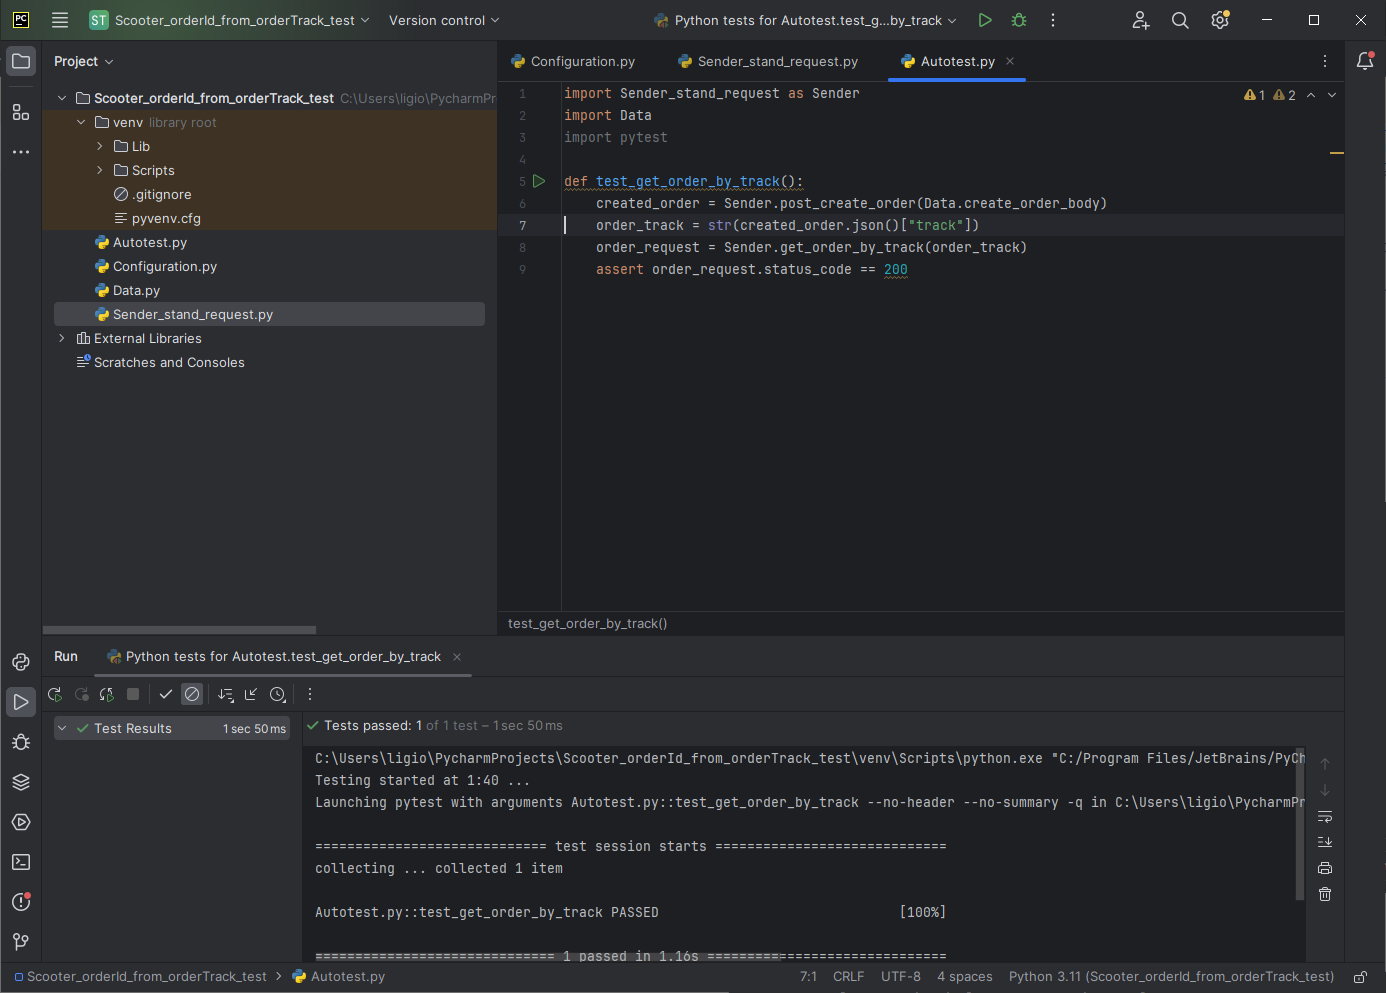
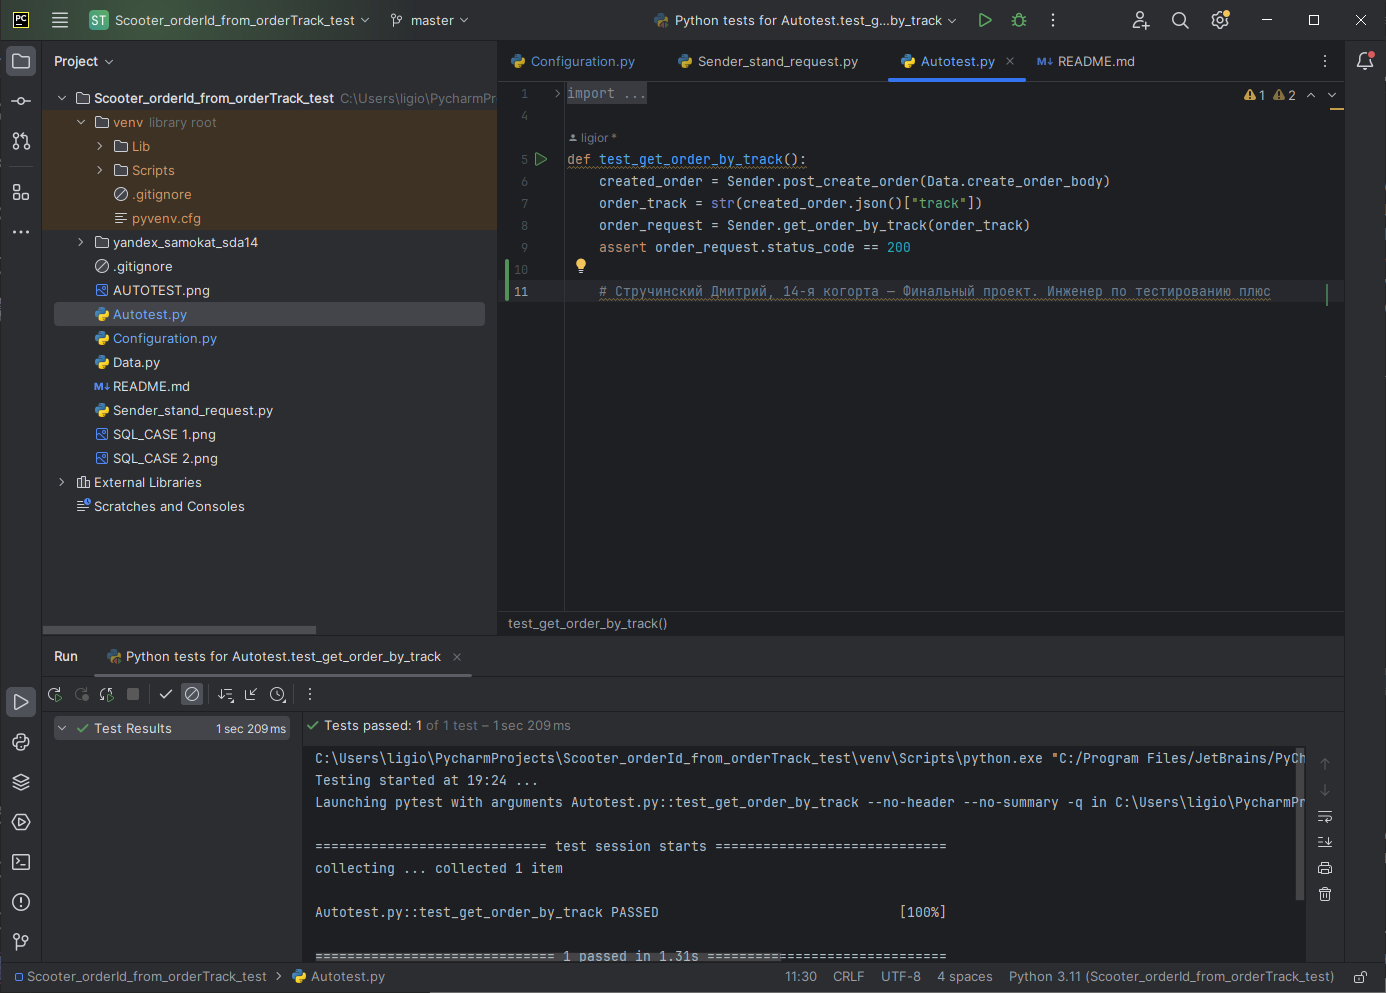
update

diff --git a/Autotest.py b/Autotest.py
@@ -7,3 +7,5 @@ def test_get_order_by_track():
     order_track = str(created_order.json()["track"])
     order_request = Sender.get_order_by_track(order_track)
     assert order_request.status_code == 200
+
+    # Стручинский Дмитрий, 14-я когорта — Финальный проект. Инженер по тестированию плюс

diff --git a/Configuration.py b/Configuration.py
@@ -1,4 +1,4 @@
-SERVER_URL = "https://488f43bc-474e-443a-b34e-51eb5e47578a.serverhub.praktikum-services.ru"
+SERVER_URL = "https://9a17759a-63b6-4418-83ad-7a0d7b7b8451.serverhub.praktikum-services.ru"
 
 CREATE_ORDER_URL = "/api/v1/orders"
 
